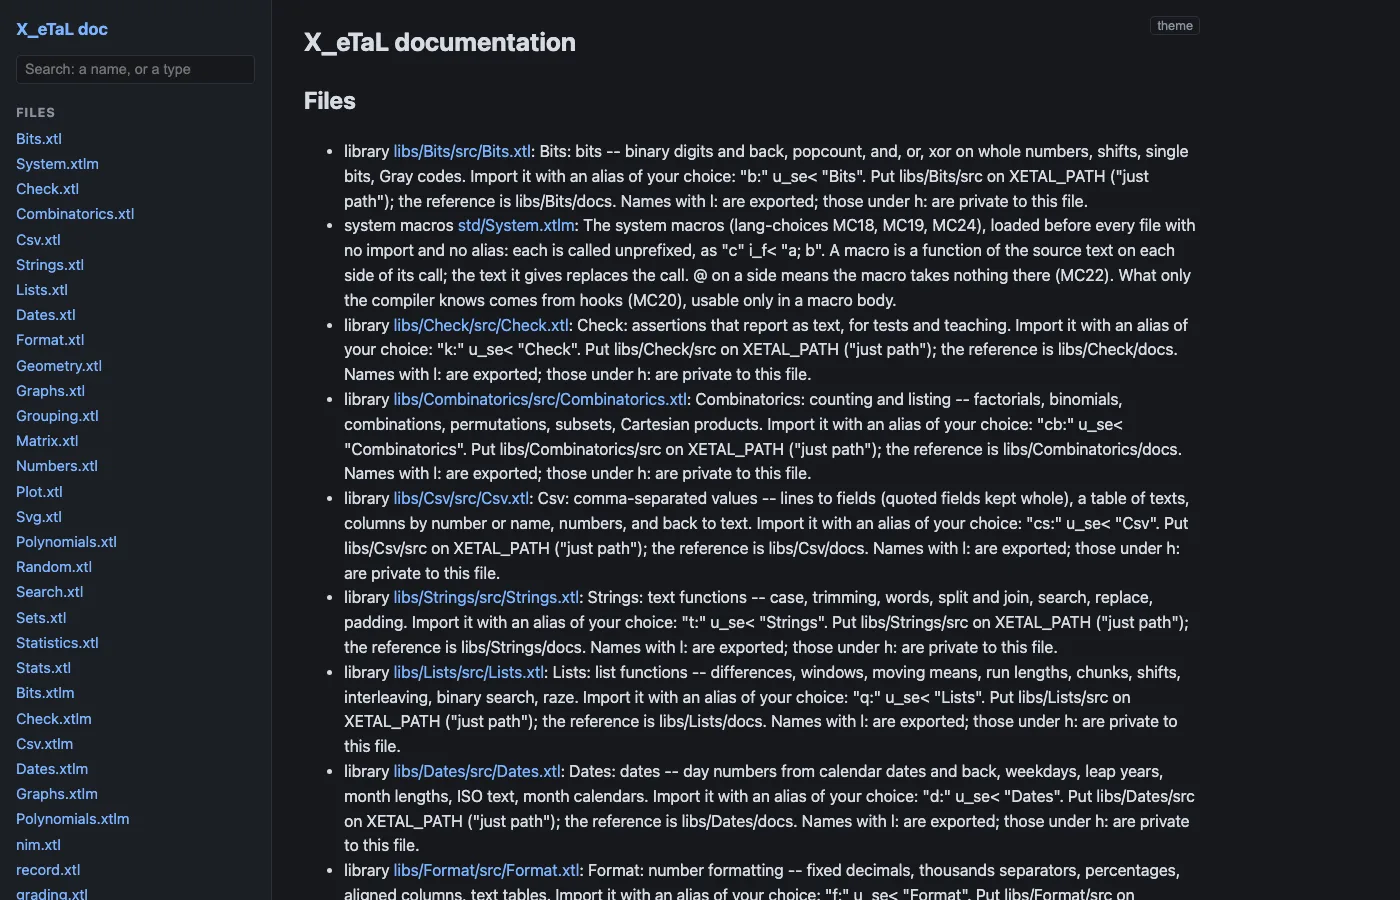
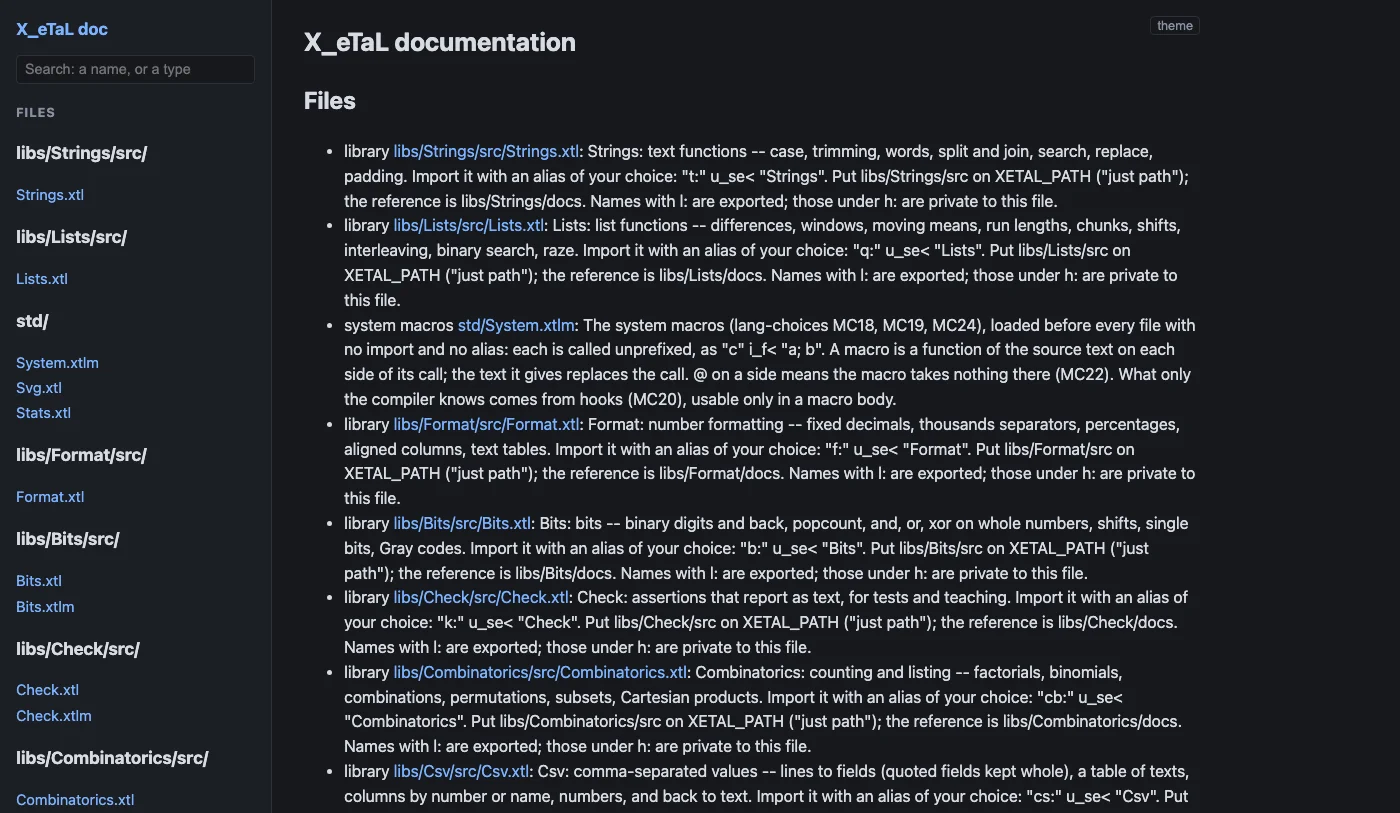
Array Languages #3: 168 functions, []D and []A, the tuples rule and its two planned uses, the doc site's directory side bar

diff --git a/_drafts/array-languages-xetal-libraries.md b/_drafts/array-languages-xetal-libraries.md
@@ -3,8 +3,8 @@ layout: post
 title: "Array Languages #3: X_eTaL-libraries, Extending the Vocabulary and the Language"
 categories: [languages, language-design, machine-learning, tools]
 tags: [array-languages, xetal, x-etal, apl, libraries, macros, extensibility, metaprogramming, dyalog, j, bqn]
-keywords: "X_eTaL libraries, array language libraries, u_se macro, xtlm macro libraries, source-to-source macros, user-defined macros, procedural macros, Forth parsing words, APL execute, Dyalog dfns, J addons, BQN bqn-libs, Check library, Strings, Sets, Matrix, Random"
-abstract: "Third in the Array Languages series: X_eTaL-libraries, where the E in the name gets its first two meanings. Nineteen libraries, 166 functions, every one with tests, a live editable demo and a reference page in a cross-reference site searchable by type; six of them carry macros: date literals checked at compile time, math notation compiled, a graph whose node names become variables. The macros are source-to-source functions written in X_eTaL, type-checked after expansion, and placed here among Rust, Forth and APL's own execute."
+keywords: "X_eTaL libraries, X_eTaL tuples, array language libraries, u_se macro, xtlm macro libraries, source-to-source macros, user-defined macros, procedural macros, Forth parsing words, APL execute, Dyalog dfns, J addons, BQN bqn-libs, Check library, Strings, Sets, Matrix, Random"
+abstract: "Third in the Array Languages series: X_eTaL-libraries, where the E in the name gets its first two meanings. Nineteen libraries, 168 functions, every one with tests, a live editable demo and a reference page in a cross-reference site searchable by type; six of them carry macros: date literals checked at compile time, math notation compiled, a graph whose node names become variables. The macros are source-to-source functions written in X_eTaL, type-checked after expansion, and placed here among Rust, Forth and APL's own execute."
 series: "Array Languages"
 series_part: 3
 date: 2026-10-09 00:15:00 -0700
@@ -38,7 +38,7 @@ Extensible has three meanings in X_eTaL: libraries extend the vocabulary, macros
 
 ## Nineteen libraries, live
 
-The standard libraries --- Combinators, Maybe, Stats, Turtle --- are built into the interpreter; this repo holds ordinary X_eTaL files any program imports the same way, with `"t:" u̲se< "Strings"` and then `ᵗu̲pper "hello"`. Nineteen are ready, 166 functions in all, each with tests, demos and a reference page, and each with a recommended alias that clashes with nothing else, in four groups:
+The standard libraries --- Combinators, Maybe, Stats, Turtle --- are built into the interpreter; this repo holds ordinary X_eTaL files any program imports the same way, with `"t:" u̲se< "Strings"` and then `ᵗu̲pper "hello"`. Nineteen are ready, 168 functions in all, each with tests, demos and a reference page, and each with a recommended alias that clashes with nothing else, in four groups:
 
 | Group | Libraries |
 |---|---|
@@ -47,12 +47,20 @@ The standard libraries --- Combinators, Maybe, Stats, Turtle --- are built into 
 | Mathematics | Numbers, Combinatorics, Matrix, Polynomials, Geometry, Graphs, Bits, Random |
 | Output | Format, Plot |
 
-Every library has a [live demo](https://softwarewrighter.github.io/X_eTaL-libraries/): its programs editable and runnable in the browser, with the reference, the source and the types one tab away. Many are ports from the libraries of other array languages --- Dyalog's dfns workspace, J's addons, BQN's bqn-libs --- reimplemented from their documented behavior and credited on each library's page. Ordinary libraries are frozen for the launch --- the repo's own note is that nineteen is enough --- with one exception made for a sibling: Plot gained line charts with axes, labels and several lines because the machine-learning repo asked for them. Inside each library, helper functions are now private, spelled with the language's new `h:` prefix, so only the documented functions are exported.
+Every library has a [live demo](https://softwarewrighter.github.io/X_eTaL-libraries/): its programs editable and runnable in the browser, with the reference, the source and the types one tab away. Many are ports from the libraries of other array languages --- Dyalog's dfns workspace, J's addons, BQN's bqn-libs --- reimplemented from their documented behavior and credited on each library's page. Ordinary libraries are frozen for the launch --- the repo's own note is that nineteen is enough --- with one exception made for a sibling: Plot gained line charts with axes, labels and several lines because the machine-learning repo asked for them. Inside each library, helper functions are now private, spelled with the language's new `h:` prefix, so only the documented functions are exported. And the hand-typed strings of digits and capital letters that several libraries used for parsing are gone, replaced by the language's built-in `⎕D` and `⎕A`.
 
-The reference is the newest piece. `xetal doc` builds a [cross-reference site](https://softwarewrighter.github.io/X_eTaL-libraries/doc/) from all fifty files --- every library, macro library and demo --- indexed, every call linked to its definition, and searchable by name or by type, so you can look for a function by the shape of what it takes and returns. The first build showed only signatures and source, because the libraries used plain `#` comments, which the tool ignores; within a day every library was rewritten with `##` documentation comments and `###` sections, so the pages now explain what each function does. The next step is planned, not started: worked examples under each comment that `xetal doc --test` runs and checks, the way the language's own standard libraries already do.
+**Tuples, where they earn it.** X_eTaL got tuples this week, and the repo has already written down when to use them, in a rule decided with me: this is a typed *array* language, so the array is the default. A tuple is worth it only where it adds something an array cannot: type safety, convenience, or notation, and most of all parts of different types, which one array cannot hold. A point in Geometry stays an array, because it gets added to, scaled and rotated with other points, and a tuple can't take arithmetic. An audit of the types of all 168 exported functions found no case yet of different-typed parts, since the domain is mostly numbers and text, but it found two where a tuple's fixed arity pays. Strings' replace takes its pair of texts as a boxed list today, so the wrong count slips through:
+
+```text
+"a" "b" "c" ᵗr̲eplace "abc"        ⍝ bbc: the third text is silently ignored
+```
+
+As a tuple, `("cat", "dog") ᵗr̲eplace "hot dog"`, a third part would be a type error. Statistics' fit returns its intercept and slope packed in one array; as a tuple, a caller can write `(intercept, slope) ← x ˢˣf̲it y`. Both are planned, not started, because each changes an exported signature and every call site, page, test and baseline with it.
+
+The reference is the newest piece. `xetal doc` builds a [cross-reference site](https://softwarewrighter.github.io/X_eTaL-libraries/doc/) from all fifty files --- every library, macro library and demo --- indexed, every call linked to its definition, and searchable by name or by type, so you can look for a function by the shape of what it takes and returns. Its side bar now groups the files by directory, library by library. The first build showed only signatures and source, because the libraries used plain `#` comments, which the tool ignores; within a day every library was rewritten with `##` documentation comments and `###` sections, so the pages now explain what each function does. The next step is planned, not started: worked examples under each comment that `xetal doc --test` runs and checks, the way the language's own standard libraries already do.
 
 <figure>
-<img src="{{ '/assets/images/posts/xetal-libraries-doc.webp' | relative_url }}" class="no-invert" alt="The X_eTaL-libraries cross-reference site: a search box for a name or a type, a list of files, and each library described with its import line">
+<img src="{{ '/assets/images/posts/xetal-libraries-doc.webp' | relative_url }}" class="no-invert" alt="The X_eTaL-libraries cross-reference site: a search box for a name or a type, the files grouped by directory in the side bar, and each library described with its import line">
 <figcaption style="font-size: 0.85em;">The <a href="https://softwarewrighter.github.io/X_eTaL-libraries/doc/">cross-reference site</a>, built by <code>xetal doc</code>: search by a name or a type.</figcaption>
 </figure>
 
